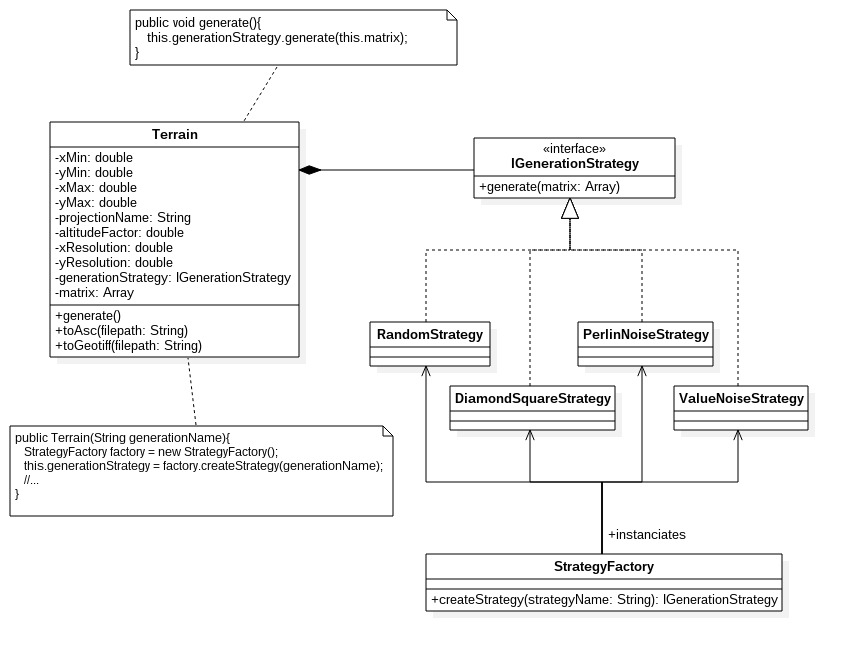
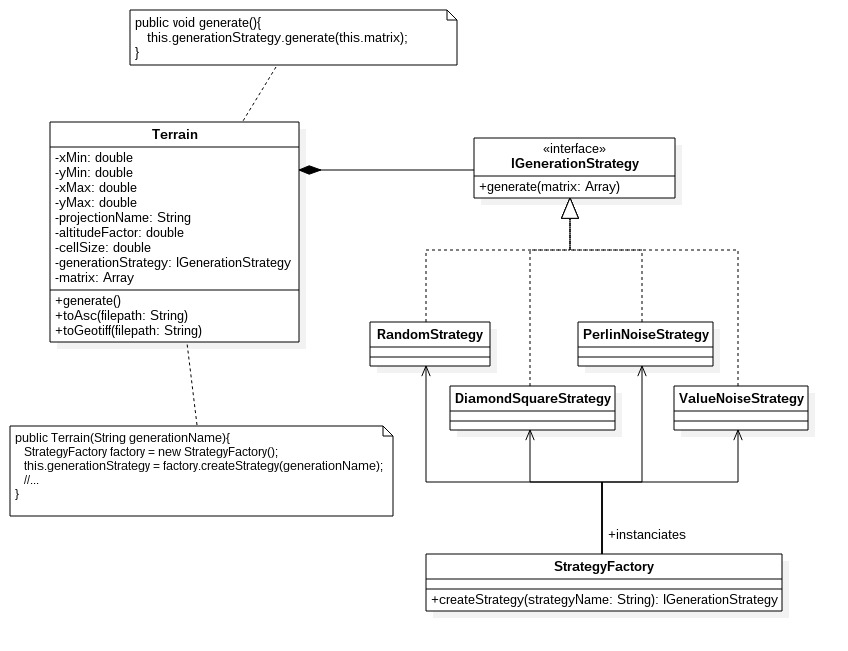
2nd test passed

Changed region(s): [[0.0613, 0.3687, 0.3679, 0.553]]

diff --git a/src/main/java/eu/ensg/tsi/azarzelli/gama/domain/Terrain.java b/src/main/java/eu/ensg/tsi/azarzelli/gama/domain/Terrain.java
@@ -18,7 +18,7 @@ public class Terrain {
      * Minimum Y coordinate. Units depends of the projection.
      */
     private double yMin;
-
+    
     /**
      * Maximum X coordinate. Units depends of the projection.
      */
@@ -42,14 +42,9 @@ public class Terrain {
     private double altitudeFactor;
 
     /**
-     * Resolution of the DEM along the X axis in the projection unit.
+     * Size of a DEM cell  along X and Y axes in the projection unit.
      */
-    private double xResolution;
-
-    /**
-     * Resolution of the DEM along the Y axis in the projection unit.
-     */
-    private double yResolution;
+    private double cellSize;
 
     /**
      * Procedural generation algorithm strategy.
@@ -64,17 +59,17 @@ public class Terrain {
     
     // Constructors ---------------------------------------
 
-	public Terrain(double xMin, double yMin, double xMax, double yMax, 
-			double xResolution, double yResolution) {
+	public Terrain(double xMin, double yMin, double xMax, double yMax,
+			double cellSize) {
+		
 		this.xMin = xMin;
 		this.yMin = yMin;
 		this.xMax = xMax;
 		this.yMax = yMax;
-		this.xResolution = xResolution;
-		this.yResolution = yResolution;
+		this.cellSize = cellSize;
 		
-		int ySize = (int) ((yMax-yMin)/yResolution);
-		int xSize = (int) ((xMax-xMin)/xResolution);
+		int ySize = (int) ((yMax-yMin)/cellSize);
+		int xSize = (int) ((xMax-xMin)/cellSize);
 		
 		this.matrix = new double[ySize][xSize];
 	}

diff --git a/src/main/java/eu/ensg/tsi/azarzelli/gama/domain/StrategyFactory.java b/src/main/java/eu/ensg/tsi/azarzelli/gama/domain/StrategyFactory.java
@@ -1,6 +1,9 @@
 package eu.ensg.tsi.azarzelli.gama.domain;
 
+import eu.ensg.tsi.azarzelli.gama.exceptions.GenerationMethodNotFoundException;
+import eu.ensg.tsi.azarzelli.gama.generation.DiamondSquareStrategy;
 import eu.ensg.tsi.azarzelli.gama.generation.IGenerationStrategy;
+import eu.ensg.tsi.azarzelli.gama.generation.RandomStrategy;
 
 /**
  * 
@@ -10,10 +13,17 @@ public class StrategyFactory {
     /**
      * @param strategyName 
      * @return
+     * @throws GenerationMethodNotFoundException 
      */
-    public IGenerationStrategy createStrategy(String strategyName) {
-        // TODO implement here
-        return null;
+    public IGenerationStrategy createStrategy(String strategyName) throws GenerationMethodNotFoundException {
+        strategyName = strategyName.toLowerCase();
+        if (strategyName.equals("random")) {
+        	return new RandomStrategy();
+        } else if (strategyName.equals("diamondsquare")) {
+        	return new DiamondSquareStrategy();
+        } else {
+        	throw new GenerationMethodNotFoundException();
+        }
     }
 
 }

diff --git a/src/test/java/eu/ensg/tsi/azarzelli/gama/domain/StrategyFactoryTest.java b/src/test/java/eu/ensg/tsi/azarzelli/gama/domain/StrategyFactoryTest.java
@@ -1,0 +1,27 @@
+package eu.ensg.tsi.azarzelli.gama.domain;
+
+import static org.junit.Assert.assertTrue;
+
+import org.junit.Test;
+
+import eu.ensg.tsi.azarzelli.gama.exceptions.GenerationMethodNotFoundException;
+import eu.ensg.tsi.azarzelli.gama.generation.IGenerationStrategy;
+import eu.ensg.tsi.azarzelli.gama.generation.RandomStrategy;
+
+public class StrategyFactoryTest {
+
+	@Test
+	public void creationTest() {
+		StrategyFactory factory = new StrategyFactory();
+		
+		IGenerationStrategy strategy = null;
+		try {
+			strategy = factory.createStrategy("random");
+		} catch (GenerationMethodNotFoundException e) {
+			e.printStackTrace();
+		}
+		
+		assertTrue(strategy instanceof RandomStrategy);
+	}
+
+}

diff --git a/src/test/java/eu/ensg/tsi/azarzelli/gama/domain/TerrainTest.java b/src/test/java/eu/ensg/tsi/azarzelli/gama/domain/TerrainTest.java
@@ -13,10 +13,9 @@ public class TerrainTest {
 		double xMax = 100;
 		double yMax = 100;
 		
-		double xResolution = 1;
-		double yResolution = 1; 
+		double cellSize = 1;
 		
-		Terrain terrain = new Terrain(xMin, yMin, xMax, yMax, xResolution, yResolution);
+		Terrain terrain = new Terrain(xMin, yMin, xMax, yMax, cellSize);
 		
 		assertTrue(terrain.getMatrix().length == 100);
 	}

diff --git a/src/main/java/eu/ensg/tsi/azarzelli/gama/exceptions/GenerationMethodNotFoundException.java b/src/main/java/eu/ensg/tsi/azarzelli/gama/exceptions/GenerationMethodNotFoundException.java
@@ -1,0 +1,10 @@
+package eu.ensg.tsi.azarzelli.gama.exceptions;
+
+public class GenerationMethodNotFoundException extends Exception {
+
+	/**
+	 * 
+	 */
+	private static final long serialVersionUID = 1L;
+	
+}
